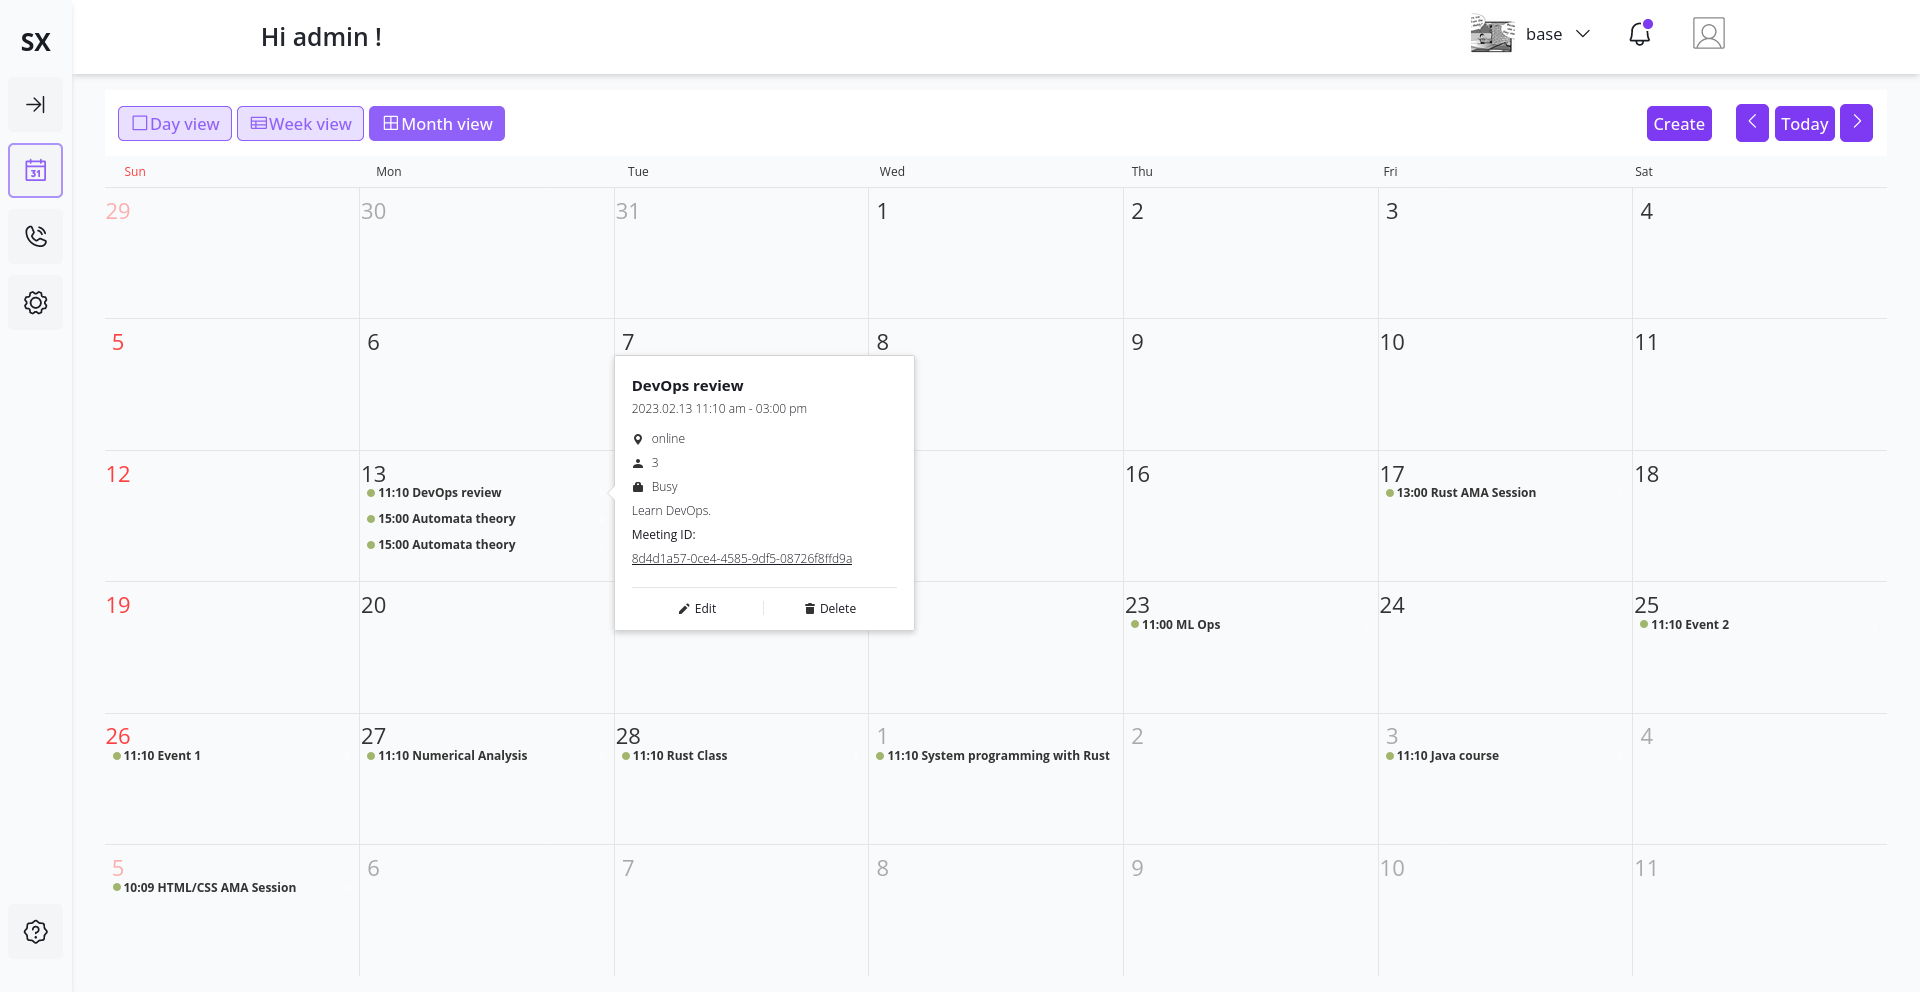
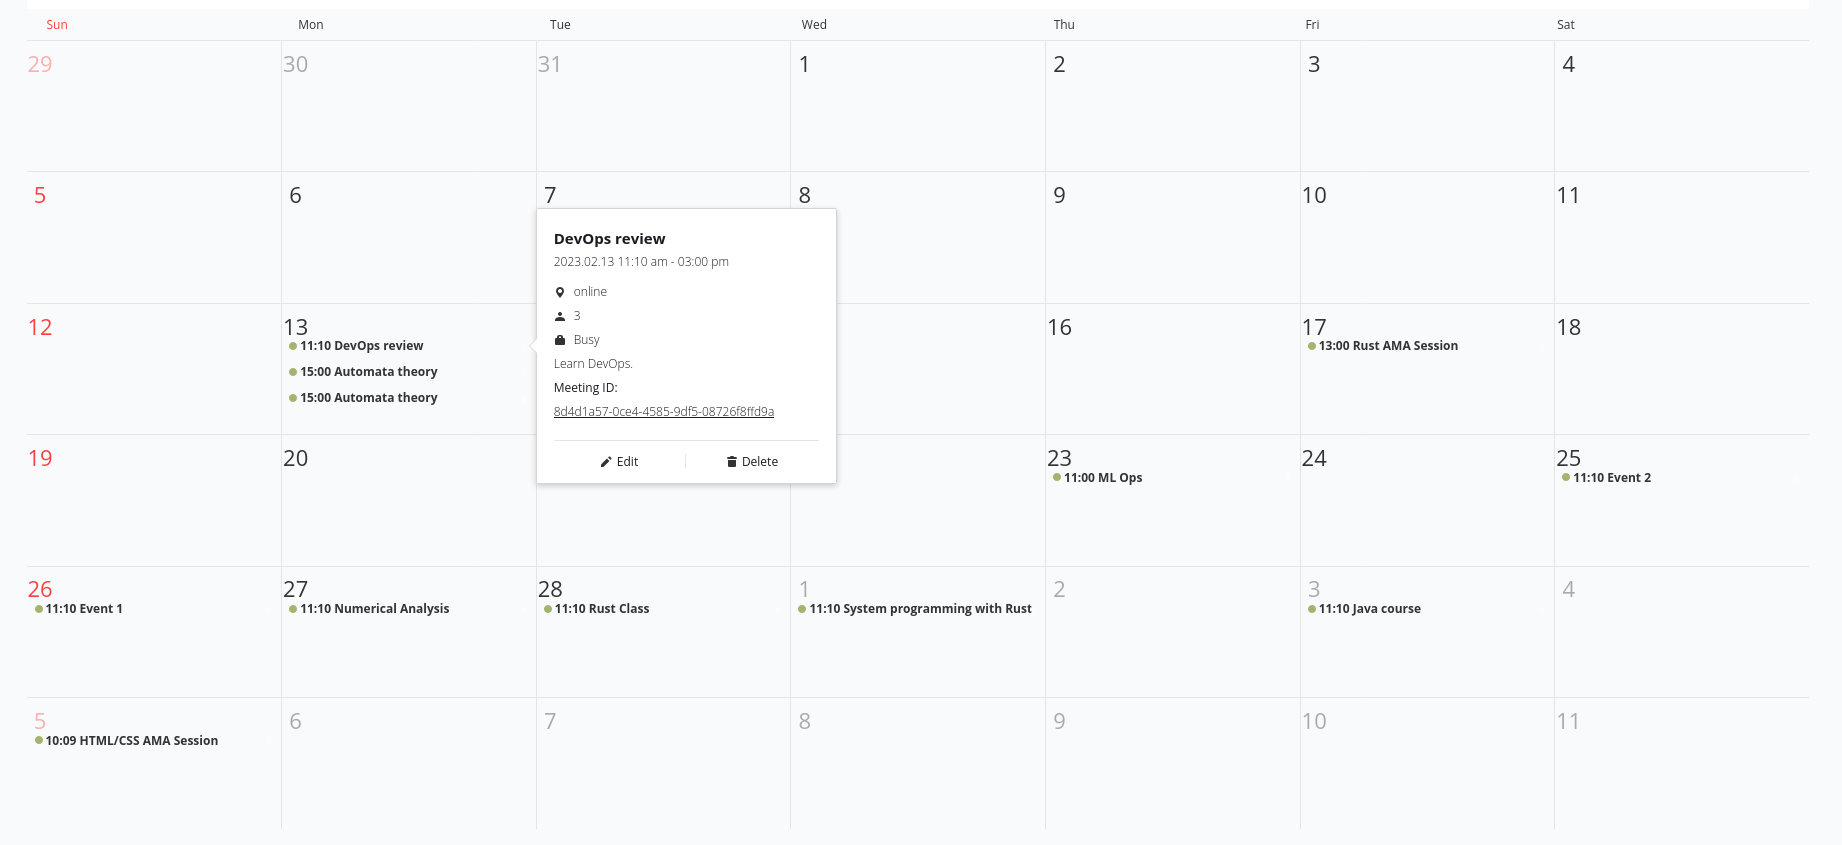
updated images size

diff --git a/3-partie/main.tex b/3-partie/main.tex
@@ -12,7 +12,7 @@ Elle offre la possibilité de se connecter ou de s'inscrire.
 
 \begin{figure}[H]
   \centering
-  \frame{\includegraphics[width=0.75\textwidth]{prototype/login}}
+  \frame{\includegraphics[width=0.95\textwidth]{prototype/login}}
   \caption{Page d'authentification de \textbf{StudX}}
   \label{fig:proto_auth}
 \end{figure}
@@ -25,7 +25,7 @@ La figure \ref{fig:proto_calendar_view} présente le calendrier,qui présente to
 
 \begin{figure}[H]
   \centering
-  \frame{\includegraphics[width=0.75\linewidth]{prototype/calendar-view}}
+  \frame{\includegraphics[width=0.95\linewidth]{prototype/calendar-view}}
   \caption{Calendrier des planifications}
   \label{fig:proto_calendar_view}
 \end{figure}
@@ -36,7 +36,7 @@ l’utilisateur peut ajouter un événement au calendrier en suivant le formulai
 
 \begin{figure}[H]
   \centering
-  \frame{\includegraphics[width=0.75\linewidth]{prototype/add-event-form}}
+  \frame{\includegraphics[width=0.825\linewidth]{prototype/add-event-form}}
   \caption{Calendrier des planifications}
   \label{fig:add_event}
 \end{figure}
@@ -46,7 +46,7 @@ Pour y accéder par la suite, les utilisateurs peuvent consulter les détails du
 
 \begin{figure}[H]
   \centering
-  \frame{\includegraphics[width=0.75\linewidth]{prototype/event-detail}}
+  \frame{\includegraphics[width=\linewidth]{prototype/event-detail}}
   \caption{Détails d'un événement}
   \label{fig:event_details}
 \end{figure}
